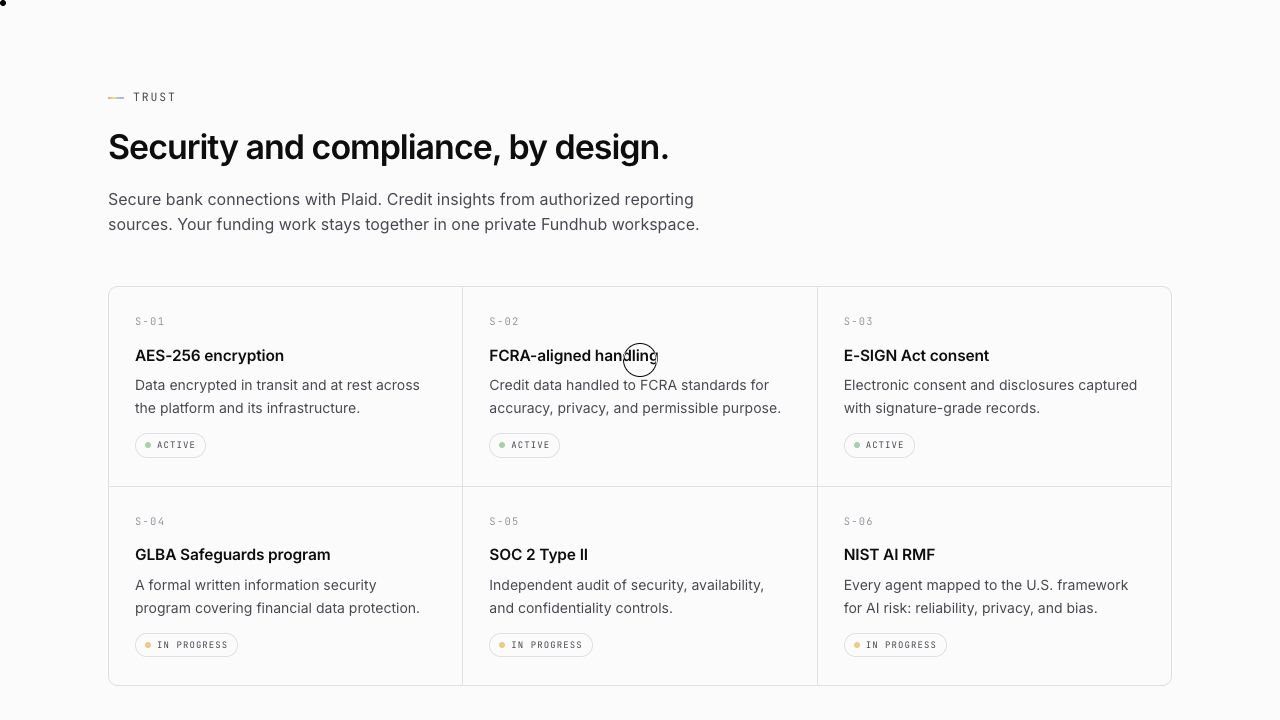
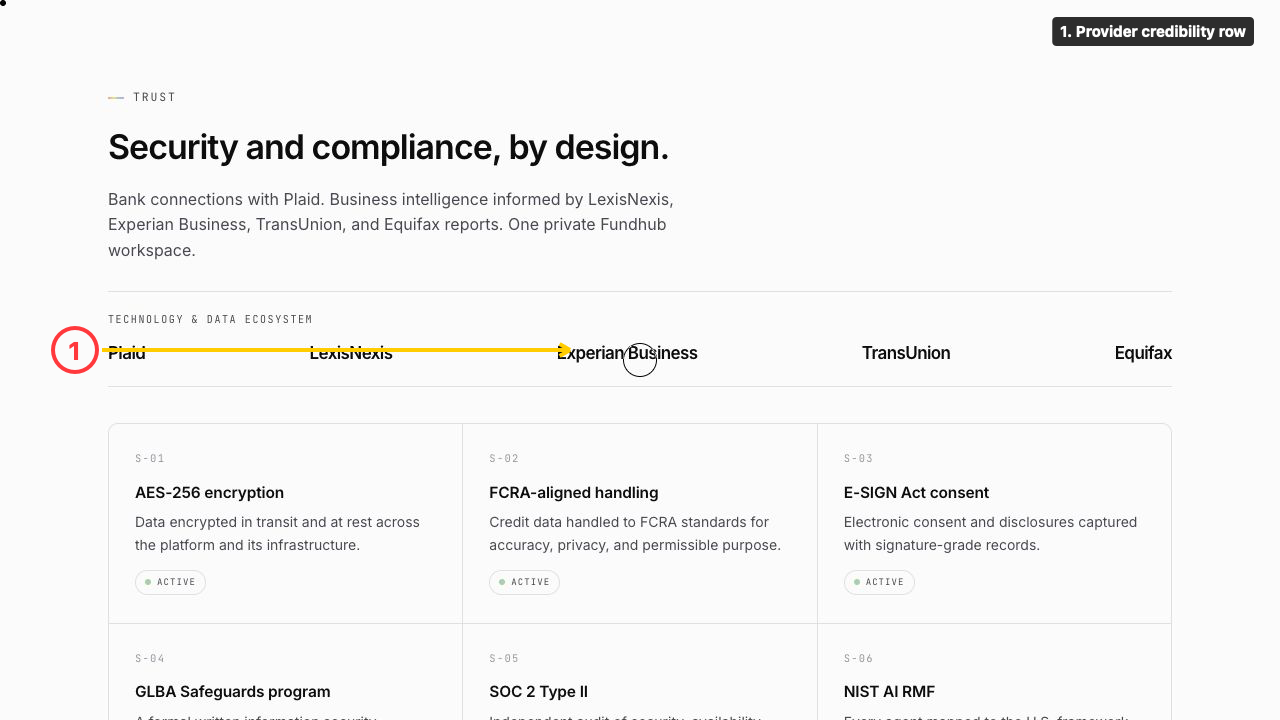
Polish local provider credibility demo

diff --git a/public/index-credibility-preview.html b/public/index-credibility-preview.html
@@ -131,6 +131,13 @@
   .sec-head{max-width:62ch;margin-bottom:48px}
   .sec-head h2{font-size:clamp(26px,3.4vw,34px);font-weight:700;letter-spacing:-.03em;margin-top:14px}
   .sec-head p{margin-top:12px;color:var(--gray);font-size:16px}
+  #security .sec-head{margin-bottom:28px}
+  .provider-rail{border-top:1px solid var(--line);border-bottom:1px solid var(--line);padding:20px 0 22px;margin-bottom:36px}
+  .provider-rail .label{font-family:var(--mono);font-size:10px;letter-spacing:.16em;text-transform:uppercase;color:var(--gray);margin-bottom:15px}
+  .provider-names{display:grid;grid-template-columns:repeat(5,max-content);justify-content:space-between;align-items:center;gap:16px 22px}
+  .provider-names span{font-size:clamp(14px,1.5vw,17px);font-weight:650;letter-spacing:-.035em;line-height:1.2;white-space:nowrap}
+  @media(max-width:800px){.provider-names{grid-template-columns:repeat(3,max-content);justify-content:start;gap:16px 28px}}
+  @media(max-width:520px){.provider-names{grid-template-columns:repeat(2,minmax(0,1fr));gap:17px 14px}.provider-names span{font-size:15px;white-space:normal}}
 
   /* steps */
   .steps{display:grid;grid-template-columns:repeat(3,1fr);border:1px solid var(--line);border-radius:10px;overflow:hidden;background:var(--paper)}
@@ -312,6 +319,9 @@
   .ghost-mark .logo{display:block;width:96vw;aspect-ratio:2698/543;margin:0 auto;filter:invert(1);opacity:.05}
   .foot-top{display:flex;justify-content:space-between;gap:40px;flex-wrap:wrap;padding-bottom:36px;border-bottom:1px solid var(--cardline)}
   .foot-brand p{margin-top:12px;font-size:14px;color:var(--gray2);max-width:34ch}
+  .app-store{margin-top:24px}
+  .app-store .label{display:block;font-family:var(--mono);font-size:10px;letter-spacing:.14em;text-transform:uppercase;color:var(--gray2);margin-bottom:9px}
+  .app-store .btn-inv{font-size:13px;padding:10px 16px}
   .foot-cols{display:flex;gap:64px;flex-wrap:wrap}
   .foot-col h4{font-family:var(--mono);font-size:10.5px;letter-spacing:.14em;text-transform:uppercase;color:var(--gray);margin-bottom:14px}
   .foot-col a{display:block;font-size:14px;color:var(--gray2);margin-bottom:10px;transition:color .15s}
@@ -550,7 +560,11 @@ src="https://www.facebook.com/tr?id=2403674420141513&ev=PageView&noscript=1"/></
     <div class="sec-head rv">
       <div class="eyebrow">Trust</div>
       <h2>Security and compliance, by design.</h2>
-      <p>Secure bank connections with Plaid. Credit insights from authorized reporting sources. Your funding work stays together in one private Fundhub workspace.</p>
+      <p>Bank connections with Plaid. Business intelligence informed by LexisNexis, Experian Business, TransUnion, and Equifax reports. One private Fundhub workspace.</p>
+    </div>
+    <div class="provider-rail rv" aria-label="Fundhub technology and data ecosystem">
+      <div class="label">Technology &amp; data ecosystem</div>
+      <div class="provider-names"><span>Plaid</span><span>LexisNexis</span><span>Experian Business</span><span>TransUnion</span><span>Equifax</span></div>
     </div>
     <div class="opts rv">
       <div class="opt"><div class="ix">S-01</div><div class="t">AES-256 encryption</div><div class="d">Data encrypted in transit and at rest across the platform and its infrastructure.</div><div class="chip on"><span class="cd"></span>Active</div></div>
@@ -635,12 +649,13 @@ src="https://www.facebook.com/tr?id=2403674420141513&ev=PageView&noscript=1"/></
   </div>
 </section>
 
-<footer>
+<footer id="app-store">
   <div class="wrap">
     <div class="foot-top">
       <div class="foot-brand">
         <a href="/" class="brand"><span class="logo inv" role="img" aria-label="fundhub" style="width:118px;height:24px"></span></a>
         <p>Fundhub helps business owners find and apply for financing through a network of funding partners. We are not a direct lender.</p>
+        <div class="app-store"><span class="label">Fundhub Portal · iOS</span><a class="btn-inv" href="https://apps.apple.com/us/app/fundhub-portal/id6823985032" target="_blank" rel="noopener noreferrer">Download on the App Store ↗</a></div>
       </div>
       <div class="foot-cols">
         <div class="foot-col">
